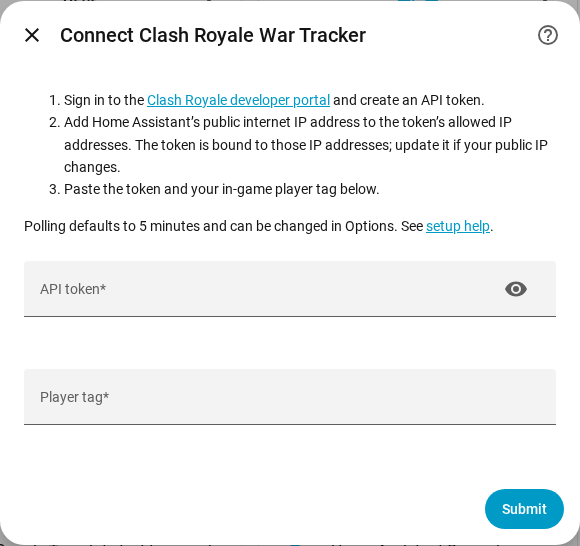
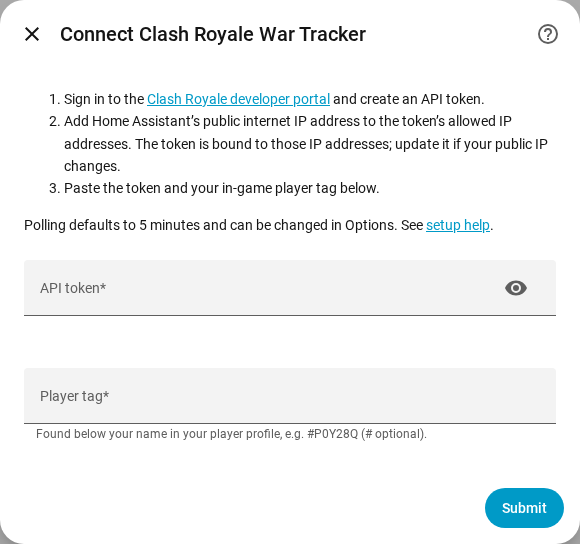
Align setup guidance and simplify documentation

diff --git a/tests/test_packaging.py b/tests/test_packaging.py
@@ -16,7 +16,7 @@ from scripts.build_artifact import MAX_FILE, PREFIX, REQUIRED, build, validate_m
 ROOT = Path(__file__).resolve().parents[1]
 
 
-@pytest.mark.parametrize("filename", ["LICENSE", "NOTICE.md"])
+@pytest.mark.parametrize("filename", ["LICENSE"])
 def test_source_download_includes_notices(filename):
     """HACS downloads the component subtree, not repository-root notices."""
     assert (ROOT / PREFIX / filename).read_bytes() == (ROOT / filename).read_bytes()
@@ -30,7 +30,7 @@ def package_source(tmp_path):
         root / "custom_components",
         ignore=shutil.ignore_patterns("__pycache__"),
     )
-    for filename in ["LICENSE", "NOTICE.md"]:
+    for filename in ["LICENSE"]:
         shutil.copyfile(ROOT / filename, root / filename)
     return root
 
@@ -47,10 +47,10 @@ def test_build_reproducible_complete_and_importable(package_source, tmp_path):
     assert archive.with_suffix(".zip.sha256").read_text() == (
         f"{digest}  {archive.name}\n"
     )
-    assert count == len(REQUIRED) + 2
+    assert count == len(REQUIRED) + 1
     with zipfile.ZipFile(archive) as bundle:
         assert set(bundle.namelist()) == {
-            PREFIX + name for name in REQUIRED | {"LICENSE", "NOTICE.md"}
+            PREFIX + name for name in REQUIRED | {"LICENSE"}
         }
         bundle.extractall(tmp_path / "installed")
     env = {k: v for k, v in os.environ.items() if k not in {"PYTHONPATH", "PYTHONHOME"}}
@@ -95,7 +95,7 @@ def test_size_limit():
 def test_credentials_rejected():
     credential = b"eyJ" + b"x" * 30 + b"." + b"y" * 30 + b"." + b"z" * 30
     with pytest.raises(ValueError, match="credential"):
-        validate_member(PREFIX + "NOTICE.md", credential)
+        validate_member(PREFIX + "LICENSE", credential)
 
 
 @pytest.mark.parametrize(
@@ -107,7 +107,7 @@ def test_missing_runtime_file_rejected(package_source, tmp_path, filename):
         build(package_source, tmp_path / "dist")
 
 
-@pytest.mark.parametrize("filename", ["LICENSE", "NOTICE.md"])
+@pytest.mark.parametrize("filename", ["LICENSE"])
 def test_missing_notice_rejected(package_source, tmp_path, filename):
     (package_source / filename).unlink()
     with pytest.raises(FileNotFoundError):
@@ -134,7 +134,7 @@ def test_translation_matches_source():
     )
 
 
-@pytest.mark.parametrize("filename", ["LICENSE", "NOTICE.md"])
+@pytest.mark.parametrize("filename", ["LICENSE"])
 @pytest.mark.parametrize("missing", [False, True])
 def test_component_notices_required_and_matching(
     package_source, tmp_path, filename, missing
@@ -183,3 +183,15 @@ def test_metadata_agrees_with_distribution():
     # Default HACS source extraction needs component-local legal files; the
     # manual ZIP intentionally has a different full custom_components layout.
     assert not hacs.get("zip_release", False)
+
+
+def test_player_tag_field_explains_format_and_location():
+    from custom_components.clash_royale_war.const import normalize_tag
+
+    strings = json.loads((ROOT / PREFIX / "strings.json").read_text())
+    help_text = strings["config"]["step"]["user"]["data_description"]["player_tag"]
+    assert "player profile" in help_text
+    assert "below your name" in help_text
+    assert "# optional" in help_text
+    assert "#P0Y28Q" in help_text
+    assert normalize_tag("p0y28q") == "#P0Y28Q"

diff --git a/tests/test_readme.py b/tests/test_readme.py
@@ -1,6 +1,7 @@
 """Keep reader-facing docs accurate without real accounts or network access."""
 
 import ast
+import json
 import re
 from pathlib import Path
 
@@ -15,7 +16,8 @@ def test_readme_installation_and_minimal_setup():
     assert readme.index("## Installation") < readme.index("## Create an API key")
     assert "https://github.com/ColeMundus/ha-clash-royale" in readme
     assert "Home Assistant Core 2026.11.0" in readme
-    assert "0.1.0" in readme
+    version = json.loads((COMPONENT / "manifest.json").read_text())["version"]
+    assert f"/v{version}/clash_royale_war-{version}.zip" in readme
     assert "Custom repositories" in readme
     assert "has not been submitted" in readme
     assert "https://developer.clashroyale.com/" in readme
@@ -28,6 +30,9 @@ def test_readme_installation_and_minimal_setup():
     assert "player's reported medals" in readme
     assert "Colosseum score" in readme
     assert "No race rank is exposed" in readme
+    assert "artwork belongs" not in readme
+    assert "official artwork" not in readme.casefold()
+    assert "not endorsed" not in readme.casefold()
     for stale in ("Clash of Clans", "clash_of_clans", "ha-clash-of-clans"):
         assert stale not in readme
 
@@ -69,7 +74,7 @@ def test_sensor_table_matches_implemented_sensor_names():
     assert documented == {name.casefold() for name in names}
 
 
-def test_official_brand_asset_and_attribution():
+def test_brand_asset_and_removed_notices():
     readme = (ROOT / "README.md").read_text()
     assert (
         '<img src="https://raw.githubusercontent.com/ColeMundus/ha-clash-royale/'
@@ -81,19 +86,8 @@ def test_official_brand_asset_and_attribution():
         assert image.size == (512, 512)
         assert not image.info
         image.verify()
-    notice = (ROOT / "NOTICE.md").read_text()
-    assert notice == (COMPONENT / "NOTICE.md").read_text()
-    for attribution in (
-        "Supercell Oy",
-        "https://supercell.com/en/games/clashroyale/",
-        "https://apps.apple.com/us/app/clash-royale/id1053012308",
-        "https://itunes.apple.com/lookup?id=1053012308",
-        "https://supercell.com/en/fan-content-policy/",
-        "not the repository's MIT license",
-        "This material is unofficial and is not endorsed by Supercell",
-    ):
-        assert attribution in notice
-    assert "is1-ssl.mzstatic.com" in notice
+    assert not (ROOT / "NOTICE.md").exists()
+    assert not (COMPONENT / "NOTICE.md").exists()
 
 
 def test_native_setup_screenshots_are_optional_and_metadata_free():

diff --git a/scripts/build_artifact.py b/scripts/build_artifact.py
@@ -38,7 +38,7 @@ def validate_member(name, data):
     if path.is_absolute() or ".." in path.parts or "\\" in name:
         raise ValueError("Unsafe archive path")
     local = name.removeprefix(PREFIX)
-    if not name.startswith(PREFIX) or local not in REQUIRED | {"LICENSE", "NOTICE.md"}:
+    if not name.startswith(PREFIX) or local not in REQUIRED | {"LICENSE"}:
         raise ValueError(f"Unapproved archive member: {name}")
     if len(data) > MAX_FILE:
         raise ValueError("Artifact member exceeds size limit")
@@ -74,7 +74,7 @@ def build(root: Path, output: Path):
     missing = REQUIRED - {name.removeprefix(PREFIX) for name in files}
     if missing:
         raise ValueError(f"Missing required runtime files: {sorted(missing)}")
-    for notice in ("LICENSE", "NOTICE.md"):
+    for notice in ("LICENSE",):
         path = root / notice
         if path.is_symlink():
             raise ValueError("Symlink notice")

diff --git a/README.md b/README.md
@@ -21,7 +21,7 @@ For HACS installations, add the URL under **Custom repositories** with category 
 
 This is a **custom HACS repository**; it has not been submitted to the default catalog.
 
-**Manual install:** Download the [release ZIP](https://github.com/ColeMundus/ha-clash-royale/releases/download/v0.1.0/clash_royale_war-0.1.0.zip), extract it into your Home Assistant configuration directory, and restart.
+**Manual install:** Download the [release ZIP](https://github.com/ColeMundus/ha-clash-royale/releases/download/v0.1.1/clash_royale_war-0.1.1.zip), extract it into your Home Assistant configuration directory, and restart.
 
 ## Create an API key
 
@@ -49,5 +49,3 @@ Player race fame is the player's reported medals; clan River Race fame is clan p
 
 - Data is polled, not live. Players without a clan and missing optional River Race data leave the corresponding sensors unavailable, not zero.
 - The API does not expose chest queues, upgrade timers or resource balances. Decks used today is a reported count, not a remaining-attacks estimate or a reset countdown.
-
-Clash Royale artwork belongs to Supercell; see [NOTICE.md](NOTICE.md). This material is unofficial and is not endorsed by Supercell. See Supercell's [Fan Content Policy](https://supercell.com/en/fan-content-policy/).
